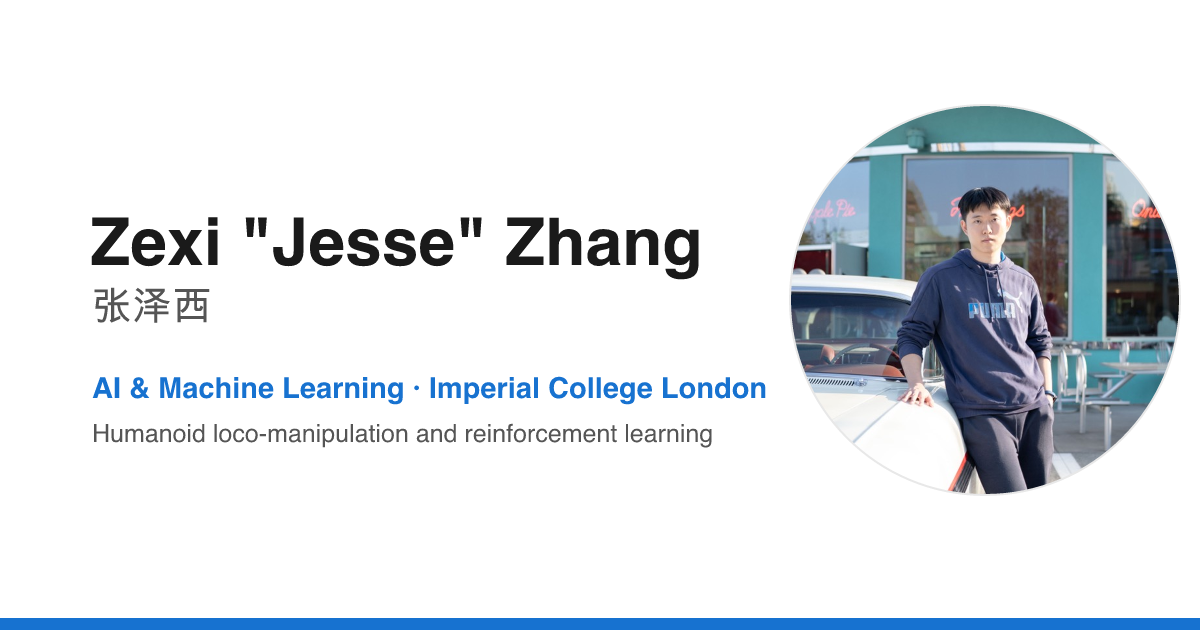
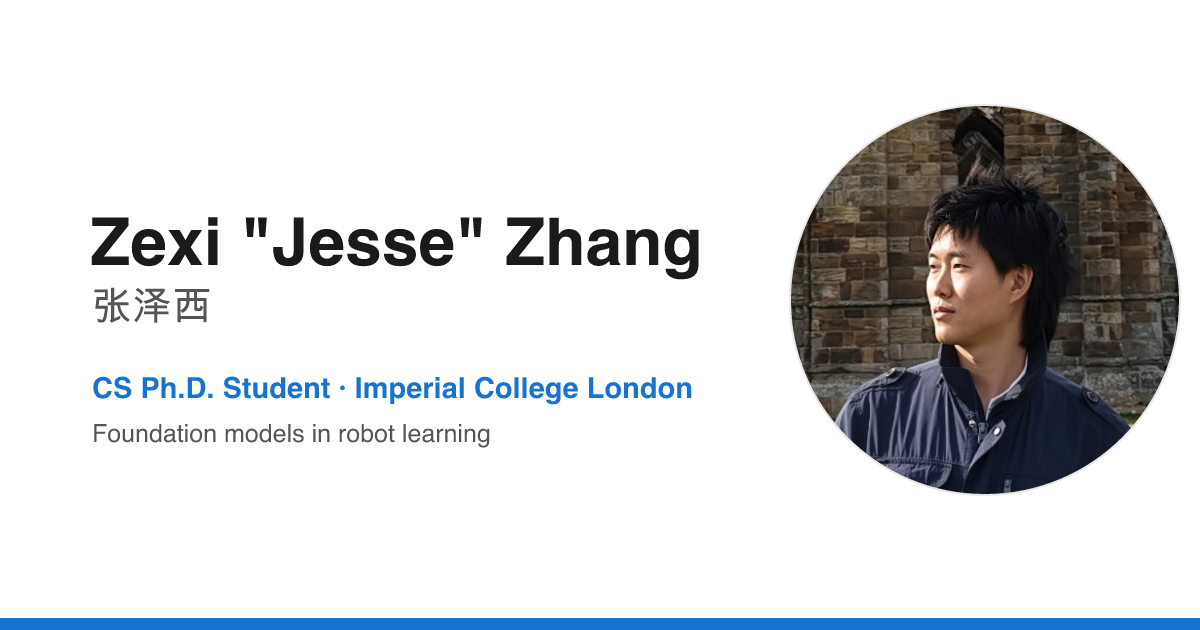
chore: update profile to CS Ph.D. at Imperial
- intro, meta descriptions and OG card: CS Ph.D. student, foundation models in robot learning
- education: Ph.D. entry; MRes graduated with Distinction
- new avatar (the old photo was removed in the previous commit); add Google Scholar link

Changed region(s): [[0.6475, 0.1508, 0.9867, 0.7841], [0.0617, 0.6635, 0.5858, 0.7238], [0.0617, 0.573, 0.6475, 0.6333]]

diff --git a/src/lib/config/site.js b/src/lib/config/site.js
@@ -5,14 +5,15 @@
 export const site = {
   name: 'Zexi "Jesse" Zhang',
   nameZh: '张泽西',
-  photo: '/images/JesseZhang-opt.jpg',
+  photo: '/images/avatar.jpg',
 
   // Short paragraphs. They may contain inline <a> links — rendered with {@html}.
-  intro: `I am a Master of Research (MRes) student in AI & Machine Learning at
-    <a href="https://www.imperial.ac.uk/">Imperial College London</a>. Currently, I am a member of
+  intro: `I am a CS Ph.D. student at
+    <a href="https://www.imperial.ac.uk/">Imperial College London</a> and a member of
     the <a href="https://www.swirl.uk/home">Safe Whole-body Intelligent Robotics Lab (SWIRL)</a>,
     advised by Prof. <a href="https://stepjam.github.io/">Stephen James</a>. My research focuses on
-    humanoid loco-manipulation and reinforcement learning.`,
+    foundation models in robot learning. I also enjoy running RL on myself in the real world, where rewards
+    are sparse and there is no reset button :)`,
 
   research: `My research focuses on enabling intelligent agents, particularly humanoid robots, to
     perceive, reason, and physically interact with the world.`,
@@ -29,6 +30,7 @@ export const site = {
 
   // Header link row. Email is rendered separately (anti-scrape component).
   social: [
+    { label: 'Google Scholar', href: 'https://scholar.google.com/citations?user=30l1YNcAAAAJ&hl=en' },
     { label: 'Github', href: 'https://github.com/Nagi-ovo' },
     { label: 'LinkedIn', href: 'https://www.linkedin.com/in/zexi-zhang-83bb20291/' },
     { label: 'Blog', href: 'https://blog.nagi.fun' },

diff --git a/src/routes/+layout.svelte b/src/routes/+layout.svelte
@@ -8,7 +8,7 @@
   <title>Zexi Zhang</title>
   <meta
     name="description"
-    content="Zexi (Jesse) Zhang — MRes student in AI & Machine Learning at Imperial College London. Research on humanoid loco-manipulation and reinforcement learning."
+    content="Zexi (Jesse) Zhang — CS Ph.D. student at Imperial College London. Research on foundation models in robot learning."
   />
 
   <!-- Open Graph / social preview cards -->
@@ -17,7 +17,7 @@
   <meta property="og:title" content="Zexi &quot;Jesse&quot; Zhang" />
   <meta
     property="og:description"
-    content="MRes student in AI & Machine Learning at Imperial College London. Research on humanoid loco-manipulation and reinforcement learning."
+    content="CS Ph.D. student at Imperial College London. Research on foundation models in robot learning."
   />
   <meta property="og:image" content="https://www.nagi.fun/og.png" />
   <meta property="og:image:width" content="1200" />
@@ -26,7 +26,7 @@
   <meta name="twitter:title" content="Zexi &quot;Jesse&quot; Zhang" />
   <meta
     name="twitter:description"
-    content="MRes student in AI & ML at Imperial College London; humanoid loco-manipulation & RL."
+    content="CS Ph.D. student at Imperial College London; foundation models in robot learning."
   />
   <meta name="twitter:image" content="https://www.nagi.fun/og.png" />
 </svelte:head>

diff --git a/src/lib/data/experience.js b/src/lib/data/experience.js
@@ -5,9 +5,16 @@ export const education = [
   {
     logo: '/images/badges/ic-new.png',
     org: 'Imperial College London',
-    date: '2025.09 - Present',
-    role: 'M.Res. in AI & Machine Learning',
+    date: '2026.10 - Present',
+    role: 'Ph.D. in Computer Science',
     note: 'Advisor: Prof. <a href="https://stepjam.github.io/">Stephen James</a>',
+  },
+  {
+    logo: '/images/badges/ic-new.png',
+    org: 'Imperial College London',
+    date: '2025.09 - 2026.09',
+    role: 'M.Res. in AI & Machine Learning',
+    note: 'Graduated with Distinction',
   },
   {
     logo: '/images/badges/bjut.png',
